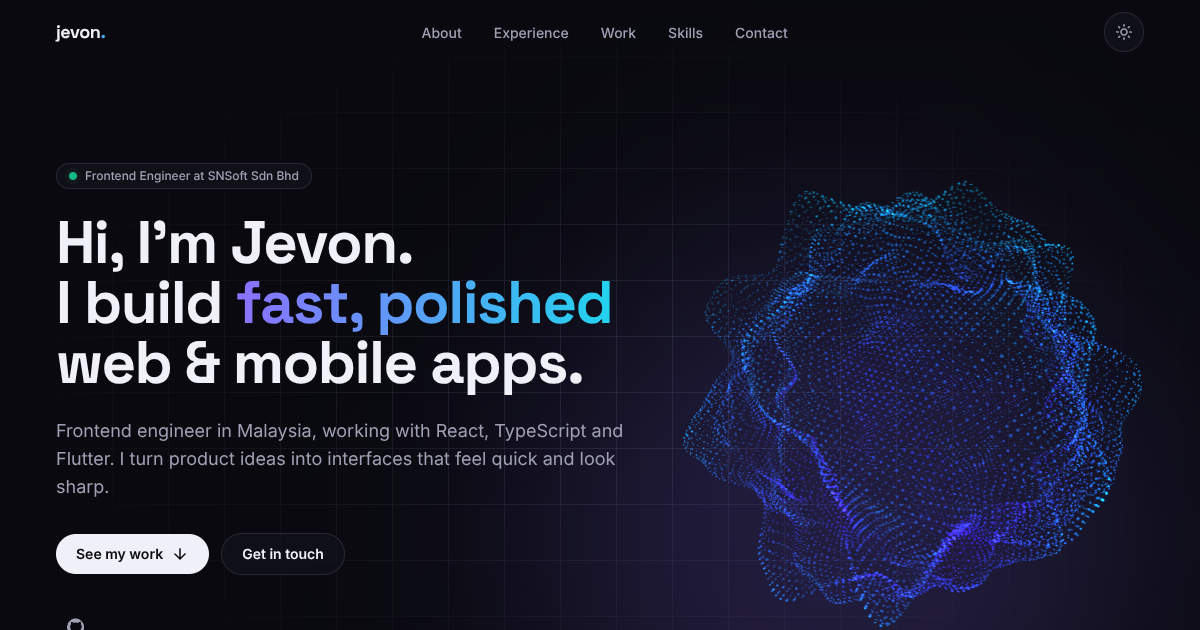
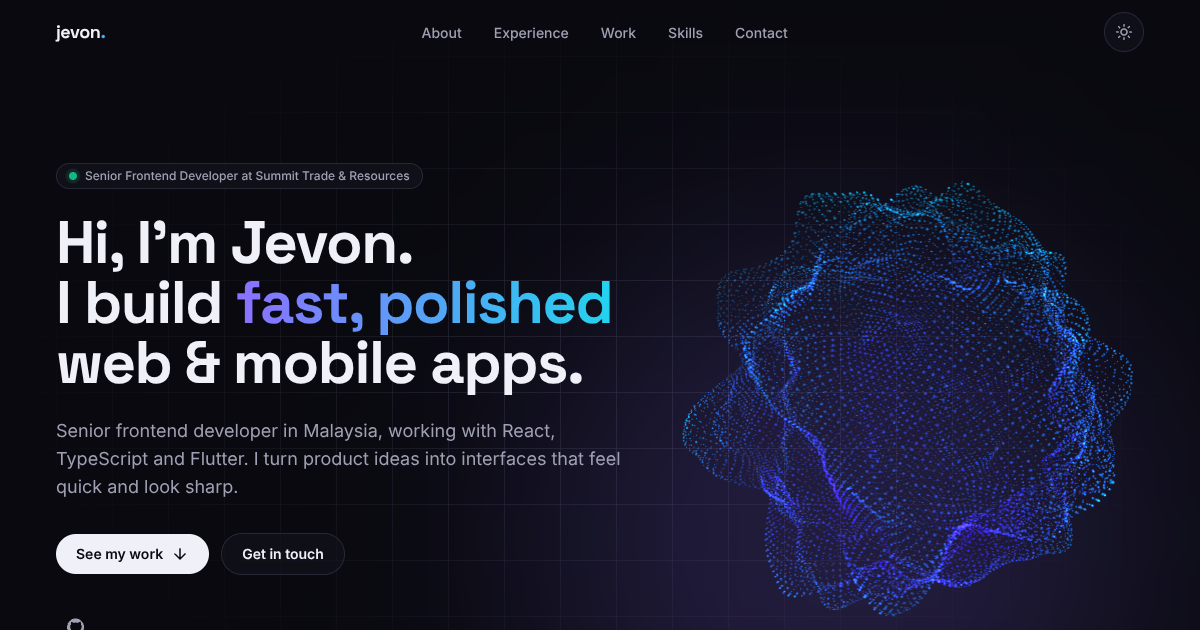
Update experience for the Summit Trade & Resources role
Adds the Senior Frontend Developer role, ends SNSoft at Aug 2026 and
rewrites the hero, about and meta copy to match. Companies without a
logo fall back to a monogram.

Claude-Session: https://claude.ai/code/session_012XYepTNGonv8W5ugiZd4dS

Changed region(s): [[0.555, 0.3016, 0.9558, 0.9952], [0.0308, 0.6635, 0.5242, 0.7841], [0.0617, 0.2714, 0.3392, 0.3016]]

diff --git a/src/data/content.js b/src/data/content.js
@@ -2,9 +2,9 @@
 
 export const profile = {
   name: 'Jevon',
-  role: 'Frontend Engineer',
+  role: 'Senior Frontend Developer',
   location: 'Malaysia',
-  company: { name: 'SNSoft Sdn Bhd', url: 'https://www.snsoft.my/' },
+  company: { name: 'Summit Trade & Resources' },
   github: 'https://github.com/Jevonzz',
   // Add your LinkedIn profile URL and CV path to show those buttons.
   linkedin: '',
@@ -12,27 +12,38 @@ export const profile = {
 }
 
 export const about = [
-  "I'm a frontend engineer who builds web and mobile apps with React, TypeScript and Flutter. Right now I'm at SNSoft, shipping features across web and mobile and wiring up product analytics with PostHog.",
-  "Before that I built and optimised WordPress sites for SEO, and shipped React and Tailwind apps with cross-functional teams. I care about interfaces that feel fast, look sharp and are easy for everyone to use.",
+  "I'm a senior frontend developer at Summit Trade & Resources, building web and mobile products with React, TypeScript and Flutter.",
+  "Before that I spent a year and a half at SNSoft shipping features across web and mobile apps and building product analytics with PostHog. Earlier I optimised WordPress sites for SEO and built React and Tailwind apps with cross-functional teams. I care about interfaces that feel fast, look sharp and work for everyone.",
 ]
 
 export const highlights = [
   { value: '2022', label: 'Shipping production code since' },
-  { value: '4', label: 'Companies worked with' },
+  { value: '5', label: 'Companies worked with' },
   { value: 'Web + Mobile', label: 'React and Flutter' },
 ]
 
 export const experiences = [
   {
+    title: 'Senior Frontend Developer',
+    company: 'Summit Trade & Resources',
+    // Drop the company logo in public/logos/ and set its path here.
+    logo: '',
+    date: 'Aug 2026 – Present',
+    points: [
+      'Leading frontend development for web and mobile products with React, TypeScript and Flutter.',
+    ],
+    tags: ['React', 'TypeScript', 'Flutter'],
+  },
+  {
     title: 'Frontend Developer',
     company: 'SNSoft Sdn Bhd',
     logo: '/logos/snsoft.jpg',
-    date: 'Jan 2025 – Present',
+    date: 'Jan 2025 – Aug 2026',
     points: [
-      'Build and maintain frontend features in React, TypeScript and Flutter across web and mobile apps.',
+      'Built and maintained frontend features in React, TypeScript and Flutter across web and mobile apps, including Baiki.',
       'Integrated PostHog to track click and page-view events across the product.',
       'Extended PostHog with XHR-based event tracking for more accurate, flexible analytics.',
-      'Debug and fix issues across web and mobile to keep the experience smooth and fast.',
+      'Debugged and fixed issues across web and mobile to keep the experience smooth and fast.',
     ],
     tags: ['React', 'TypeScript', 'Flutter', 'PostHog'],
   },

diff --git a/index.html b/index.html
@@ -3,15 +3,15 @@
   <head>
     <meta charset="UTF-8" />
     <meta name="viewport" content="width=device-width, initial-scale=1.0" />
-    <title>Jevon | Frontend Engineer</title>
-    <meta name="description" content="Jevon is a frontend engineer in Malaysia building fast, polished web and mobile apps with React, TypeScript and Flutter." />
+    <title>Jevon | Senior Frontend Developer</title>
+    <meta name="description" content="Jevon is a senior frontend developer in Malaysia building fast, polished web and mobile apps with React, TypeScript and Flutter." />
     <meta name="theme-color" content="#09090f" />
     <link rel="icon" href="/favicon.ico" sizes="any" />
     <link rel="canonical" href="https://jevonzz.github.io/" />
 
     <meta property="og:type" content="website" />
     <meta property="og:url" content="https://jevonzz.github.io/" />
-    <meta property="og:title" content="Jevon | Frontend Engineer" />
+    <meta property="og:title" content="Jevon | Senior Frontend Developer" />
     <meta property="og:description" content="Building fast, polished web and mobile apps with React, TypeScript and Flutter." />
     <meta property="og:image" content="https://jevonzz.github.io/og.png" />
     <meta name="twitter:card" content="summary_large_image" />

diff --git a/src/components/Experience.jsx b/src/components/Experience.jsx
@@ -9,7 +9,13 @@ export default function Experience() {
         {experiences.map((job, i) => (
           <li key={job.company} className="reveal relative flex gap-4 sm:gap-6" style={{ '--delay': `${i * 60}ms` }}>
             <div className="relative z-10 grid h-11 w-11 shrink-0 place-items-center overflow-hidden rounded-xl border border-line bg-white sm:h-14 sm:w-14">
-              <img src={job.logo} alt="" className="h-3/4 w-3/4 object-contain" loading="lazy" />
+              {job.logo ? (
+                <img src={job.logo} alt="" className="h-3/4 w-3/4 object-contain" loading="lazy" />
+              ) : (
+                <span className="font-display text-sm font-bold text-zinc-800" aria-hidden="true">
+                  {job.company.split(/\s+/).filter((w) => /^[A-Z]/.test(w)).map((w) => w[0]).join('').slice(0, 3)}
+                </span>
+              )}
             </div>
             <article className="card spotlight flex-1 p-5 sm:p-6">
               <div className="flex flex-col gap-1 sm:flex-row sm:items-baseline sm:justify-between">

diff --git a/src/components/Hero.jsx b/src/components/Hero.jsx
@@ -60,7 +60,7 @@ export default function Hero({ dark }) {
           </h1>
 
           <p className="mt-6 max-w-xl text-base leading-relaxed text-muted sm:text-lg">
-            Frontend engineer in {profile.location}, working with React, TypeScript and Flutter. I turn product ideas into
+            Senior frontend developer in {profile.location}, working with React, TypeScript and Flutter. I turn product ideas into
             interfaces that feel quick and look sharp.
           </p>
 
